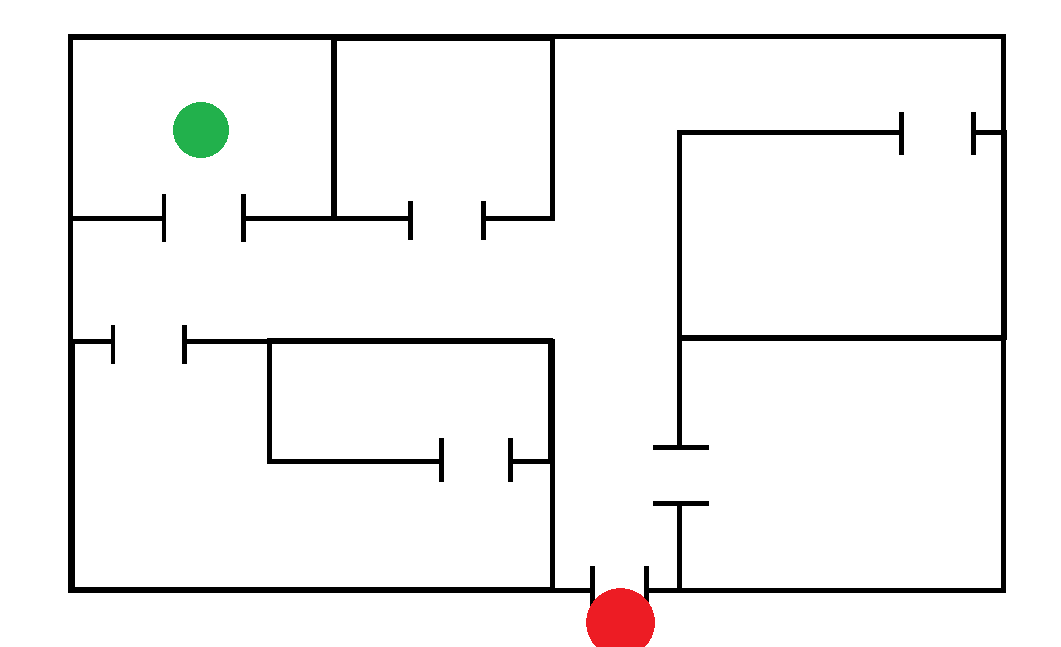
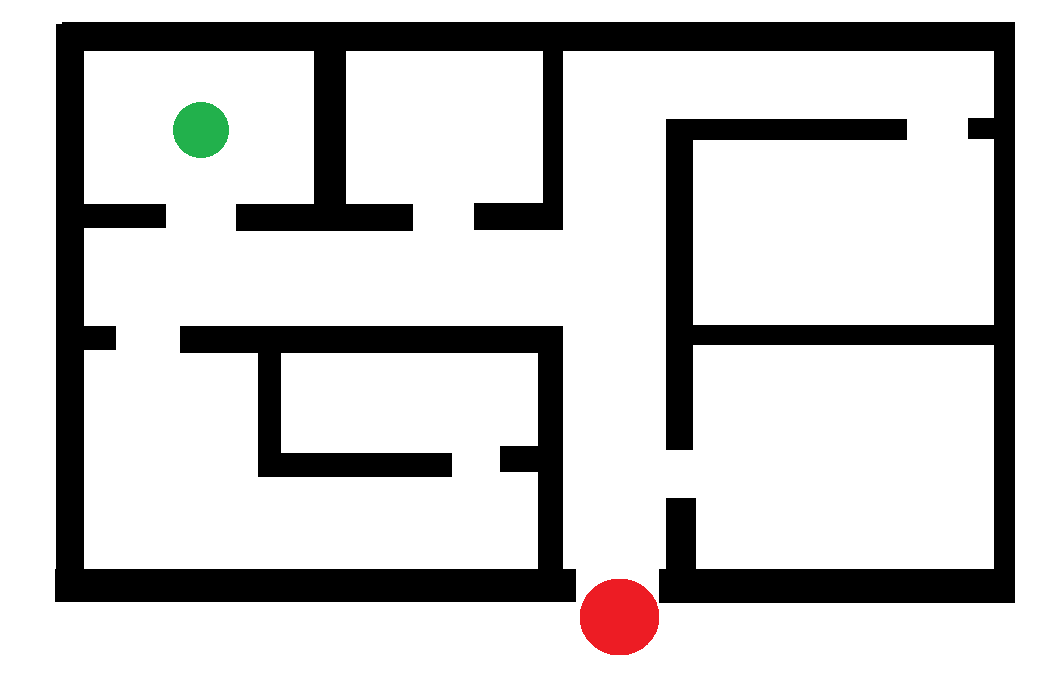
Final version of the application

Changed region(s): [[0.0311, 0.0309, 0.9642, 1.0], [0.1555, 0.2164, 0.2177, 0.2473], [0.1555, 0.1546, 0.2177, 0.1855]]

diff --git a/main.py b/main.py
@@ -1,129 +1,164 @@
 import cv2
-import tkinter as tk
-from tkinter import filedialog
-from PIL import Image, ImageTk
 import numpy as np
-import networkx as nx
-from shapely.geometry import LineString
+from collections import deque
+from tkinter import Tk, Button, Label, filedialog
+from PIL import Image, ImageTk
 
-class EvacuationApp:
+def find_start_end_points(image):
+    # Setting the HSV color ranges for green and red.
+    green_lower = np.array([40, 40, 40])
+    green_upper = np.array([80, 255, 255])
+
+    # We have a double range for red because of its double occurrence in the HSV color space
+    red_lower1 = np.array([0, 50, 50])
+    red_upper1 = np.array([10, 255, 255])
+    red_lower2 = np.array([170, 50, 50])
+    red_upper2 = np.array([180, 255, 255])
+
+    hsv = cv2.cvtColor(image, cv2.COLOR_BGR2HSV)
+
+    green_mask = cv2.inRange(hsv, green_lower, green_upper)
+    red_mask1 = cv2.inRange(hsv, red_lower1, red_upper1)
+    red_mask2 = cv2.inRange(hsv, red_lower2, red_upper2)
+    red_mask = cv2.bitwise_or(red_mask1, red_mask2)
+
+    green_points = cv2.findNonZero(green_mask)
+    red_points = cv2.findNonZero(red_mask)
+
+    if green_points is None or red_points is None:
+        raise ValueError("Start or end point not found in the image")
+
+    start_point = tuple(green_points[0][0])
+    end_point = tuple(red_points[0][0])
+
+    return start_point, end_point
+
+def draw_walls(image):
+    gray = cv2.cvtColor(image, cv2.COLOR_BGR2GRAY)
+    _, binary = cv2.threshold(gray, 1, 255, cv2.THRESH_BINARY_INV)
+    contours, _ = cv2.findContours(binary, cv2.RETR_EXTERNAL, cv2.CHAIN_APPROX_SIMPLE)
+
+    for contour in contours:
+        cv2.drawContours(image, [contour], -1, (0, 0, 0), 2)
+
+    return image, binary
+
+def bfs_search(image, start, end, binary):
+    queue = deque([start])
+    visited = set()
+    parent = {}
+    found = False
+
+    height, width = binary.shape  # Downloading the dimensions of the binary image
+
+    directions = [(-1, 0), (0, 1), (1, 0), (0, -1)]  #  up, right, down, left
+
+    while queue:
+        x, y = queue.popleft()
+        if (x, y) == end:
+            found = True
+            break
+
+        for direction in directions:
+            next_x, next_y = x + direction[0], y + direction[1]
+            if next_x >= 0 and next_x < width and next_y >= 0 and next_y < height:  # Checking image boundaries
+                if (next_x, next_y) not in visited and binary[next_y, next_x] != 255:
+                    queue.append((next_x, next_y))
+                    visited.add((next_x, next_y))
+                    parent[(next_x, next_y)] = (x, y)
+
+    if not found:
+        raise ValueError("Failed to find a valid path")
+
+    # Backtracking to reconstruct the path
+    path = []
+    current = end
+    while current != start:
+        path.append(current)
+        current = parent[current]
+    path.append(start)
+    path.reverse()
+
+    return path
+
+class MazeSolverApp:
     def __init__(self, root):
         self.root = root
-        self.root.title("Aplikacja Ewakuacyjna")
+        self.root.title("Maze Solver App")
 
-        # GUI
-        self.btn_open_image = tk.Button(root, text="Wczytaj plan ewakuacyjny", command=self.open_image)
-        self.btn_open_image.pack(pady=10)
+        self.image_path = None
+        self.image = None
+        self.start_point = None
+        self.end_point = None
+        self.result_image = None
 
-        # Panel obrazu
-        self.canvas = tk.Canvas(root)
-        self.canvas.pack()
+        # UI Elements
+        self.label_info = Label(self.root, text="Select an image file")
+        self.label_info.pack(pady=10)
 
-        # Model detekcji obiektów przy pomocy OpenCV
-        self.object_detection_model = cv2
+        self.button_load_image = Button(self.root, text="Select Image", command=self.load_and_solve)
+        self.button_load_image.pack(pady=5)
 
-        # Algorytm grafowy do wyznaczania ścieżek
-        self.graph = nx.Graph()
-        
-    def open_image(self):
-        file_path = filedialog.askopenfilename(filetypes=[("Image files", "*.png;*.jpg;*.jpeg;*.bmp")])
-    
-        if file_path:
-            # Wczytujemy obraz przy użyciu OpenCV
-            image = cv2.imread(file_path)
-            image_rgb = cv2.cvtColor(image, cv2.COLOR_BGR2RGB)  # OpenCV używa formatu BGR, a PIL oczekuje RGB
+        self.label_image = Label(self.root)
+        self.label_image.pack(padx=10, pady=10)
 
-            # Detekcja obiektów
-            objects = self.detect_objects(image)
+    def load_and_solve(self):
+        self.image_path = filedialog.askopenfilename(filetypes=[("Image files", "*.jpg;*.png;*.bmp")])
+        if self.image_path:
+            self.image = cv2.imread(self.image_path)
+            self.solve_and_display()
 
-            # Wyznaczanie ścieżek ewakuacyjnych
-            evacuation_paths = self.calculate_evacuation_paths(objects)
+    def solve_and_display(self):
+        if self.image is None:
+            self.label_info.config(text="No image loaded")
+            return
 
-            # Wizualizacja detekcji na obrazie
-            for obj in objects:
-                cv2.rectangle(image_rgb, obj["bbox"][0], obj["bbox"][1], (0, 255, 0), 2)
+        try:
+            self.start_point, self.end_point = find_start_end_points(self.image)
+            self.label_info.config(text=f"Start point: {self.start_point}, End point: {self.end_point}")
 
-            # Rysowanie ścieżek ewakuacyjnych na obrazie
-            for start_node, paths in evacuation_paths.items():
-                for end_node, path in paths.items():
-                    if start_node != end_node:
-                        cv2.line(image_rgb, start_node, path[1], (255, 0, 0), 2)
+            image_with_walls, binary = draw_walls(self.image)
 
-            # Przekształcanie obrazu do obiektu ImageTk
-            image = Image.fromarray(image_rgb)
-            image_tk = ImageTk.PhotoImage(image)
+            # Drawing start and end points
+            cv2.circle(image_with_walls, self.start_point, 5, (0, 255, 0), -1)
+            cv2.circle(image_with_walls, self.end_point, 5, (0, 0, 255), -1)
 
-             # Wyświetl obraz na canvas
-            self.canvas.config(width=image.width, height=image.height)
-            self.canvas.create_image(0, 0, anchor=tk.NW, image=image_tk)
-            self.canvas.image = image_tk
+            # Finding and drawing path using BFS algorithm
+            path = bfs_search(image_with_walls, self.start_point, self.end_point, binary)
 
-            
-    def detect_objects(self, image):
-        # Algorytm Canny'ego do detekcji krawędzi
-        edges = cv2.Canny(image, 100, 200)
+            # Drawing the path on the image
+            for point in path:
+                cv2.circle(image_with_walls, point, 2, (0, 0, 255), -1)
 
-        # Szukanie konturów na podstawie krawędzi
-        contours, _ = cv2.findContours(edges, cv2.RETR_EXTERNAL, cv2.CHAIN_APPROX_SIMPLE)
+            # Scaling the image to fit the label
+            image_height, image_width, _ = image_with_walls.shape
+            max_display_width = 800
+            scale_factor = max_display_width / image_width
+            scaled_width = int(image_width * scale_factor)
+            scaled_height = int(image_height * scale_factor)
+            image_with_walls = cv2.resize(image_with_walls, (scaled_width, scaled_height))
 
-        objects = []
-        for contour in contours:
-            x, y, w, h = cv2.boundingRect(contour)
-            objects.append({"bbox": [(x, y), (x + w, y + h)]})
+            # Converting image back to RGB for displaying in tkinter
+            image_with_walls_rgb = cv2.cvtColor(image_with_walls, cv2.COLOR_BGR2RGB)
+            image_with_walls_pil = Image.fromarray(image_with_walls_rgb)
+            image_with_walls_tk = ImageTk.PhotoImage(image_with_walls_pil)
 
-        return objects
+            # Updating label with result image
+            self.label_image.configure(image=image_with_walls_tk)
+            self.label_image.image = image_with_walls_tk
 
-    def calculate_evacuation_paths(self, objects):
-    # Dodawanie wierzchołków reprezentujących środki obiektów
-        for obj in objects:
-            center = ((obj["bbox"][0][0] + obj["bbox"][1][0]) // 2, (obj["bbox"][0][1] + obj["bbox"][1][1]) // 2)
-            self.graph.add_node(center)
+            # Saving the result image
+            result_filename = "output.png"
+            cv2.imwrite(result_filename, image_with_walls)
+            self.label_info.config(text=f"Result saved as {result_filename}")
 
-        # Dodawanie krawędzi między sąsiadującymi obiektami
-        for i in range(len(objects)):
-            for j in range(i + 1, len(objects)):
-                obj1 = objects[i]
-                obj2 = objects[j]
-                center1 = ((obj1["bbox"][0][0] + obj1["bbox"][1][0]) // 2, (obj1["bbox"][0][1] + obj1["bbox"][1][1]) // 2)
-                center2 = ((obj2["bbox"][0][0] + obj2["bbox"][1][0]) // 2, (obj2["bbox"][0][1] + obj2["bbox"][1][1]) // 2)
+        except ValueError as e:
+            self.label_info.config(text=str(e))
 
-                line = LineString([center1, center2])
-                line_intersects = False
-                for edge in self.graph.edges:
-                    if LineString(edge).intersects(line):
-                        line_intersects = True
-                        break
-
-                if not line_intersects:
-                    self.graph.add_edge(center1, center2, weight=line.length)
-
-        evacuation_paths = {}
-        for start_node in self.graph.nodes:
-            paths = nx.single_source_dijkstra_path(self.graph, start_node, weight='weight')
-            evacuation_paths[start_node] = paths
-
-        return evacuation_paths
-    
-    def draw_evacuation_paths(self, image, evacuation_paths):
-        for start_node, paths in evacuation_paths.items():
-            for end_node, path in paths.items():
-                if start_node != end_node:
-                    for i in range(len(path)-1):
-                        cv2.line(image, path[i], path[i+1], (255, 0, 0), 2)  # Rysowanie ścieżki na obrazie
-
-        return image
-    
-    def show_image_on_canvas(self, image):
-        # Przekształcanie obrazu do obiektu ImageTk
-        image = Image.fromarray(image)
-        image_tk = ImageTk.PhotoImage(image)
-
-        # Wyświetlanie obrazu na canvas
-        self.canvas.config(width=image.width, height=image.height)
-        self.canvas.create_image(0, 0, anchor=tk.NW, image=image_tk)
-        self.canvas.image = image_tk
+def main():
+    root = Tk()
+    app = MazeSolverApp(root)
+    root.mainloop()
 
 if __name__ == "__main__":
-    root = tk.Tk()
-    app = EvacuationApp(root)
-    root.mainloop()
+    main()
